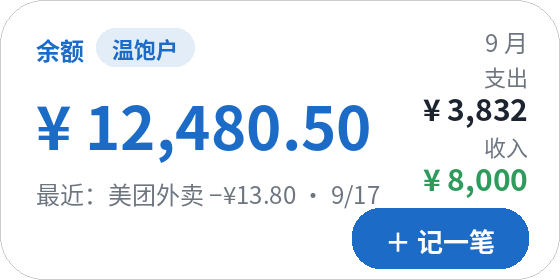
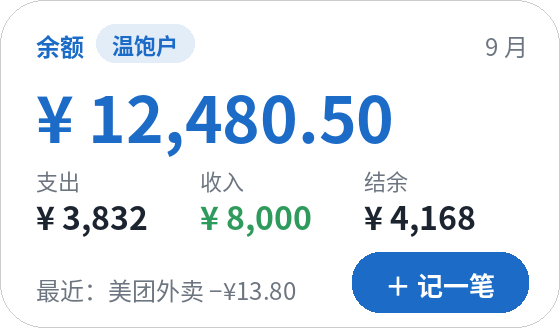
0.9.5：修主题互切黑闪（实色主题垫底色）；4×2 本月小部件四段铺满 + 结余

diff --git a/apps/yujian/lib/src/platform/home_widget_bridge.dart b/apps/yujian/lib/src/platform/home_widget_bridge.dart
@@ -13,10 +13,10 @@ class HomeWidgetBridge {
   /// [calYm] 是 `yyyy-MM`，[calExp] / [calInc] 是该月每天的支出 / 收入（分），逗号分隔、按日序；4×4 日历小部件用。
   /// [title] 是财富称号（贫困户 / 月光族 / …），空字符串 = 没有（没数据或游戏层关着），小部件上的胶囊就不显示。
   /// [disposable] 是「可花的」，[goals] 是 4×2 目标小部件用的 JSON 数组（最多 3 条，见 AppState.pushHomeWidget）。
-  Future<void> update({required String balance, required String expense, required String income, required String month, String recent = '', String today = '', String calYm = '', String calExp = '', String calInc = '', String title = '', String disposable = '', String goals = ''}) async {
+  Future<void> update({required String balance, required String expense, required String income, required String month, String recent = '', String today = '', String calYm = '', String calExp = '', String calInc = '', String title = '', String disposable = '', String goals = '', String net = ''}) async {
     if (!supported) return;
     try {
-      await _m.invokeMethod<void>('update', {'balance': balance, 'expense': expense, 'income': income, 'month': month, 'recent': recent, 'today': today, 'cal_ym': calYm, 'cal_exp': calExp, 'cal_inc': calInc, 'title': title, 'disposable': disposable, 'goals': goals});
+      await _m.invokeMethod<void>('update', {'balance': balance, 'expense': expense, 'income': income, 'month': month, 'recent': recent, 'today': today, 'cal_ym': calYm, 'cal_exp': calExp, 'cal_inc': calInc, 'title': title, 'disposable': disposable, 'goals': goals, 'net': net});
     } on PlatformException {
       // 没装小部件或系统不给，都不影响 App
     }

diff --git a/apps/yujian/lib/main.dart b/apps/yujian/lib/main.dart
@@ -92,7 +92,14 @@ class YujianApp extends StatelessWidget {
           final hasBg = spec.background != null || custom != null;
           final y = base.extension<YujianColors>()!;
           // 底栏挂在 Navigator 外面的覆盖层里（见 dock_host.dart），切页时不跟着路由一起被合成，磨砂全程有效
-          Widget host(Widget child) => DockHost(controller: dockController, dockBuilder: _buildDock, child: child);
+          // 没有背景层的实色主题：Navigator 底下垫一块主题底色。MaterialApp 切主题时会把 ThemeData 插值 200ms，
+          // scaffoldBackgroundColor 从透明（玻璃 / 暖木）渐变到实色的那几帧是半透明的，底下没东西就露出窗口的黑——
+          // 「四款主题互相切换会黑闪一下」就是它；玻璃主题切走时背景层又是立刻拆掉的，同样露黑
+          Widget host(Widget child) => DockHost(
+                controller: dockController,
+                dockBuilder: _buildDock,
+                child: hasBg ? child : Stack(fit: StackFit.expand, children: [ColoredBox(color: base.colorScheme.surface), child]),
+              );
           return MaterialApp(
             title: '余见',
             theme: custom == null ? base : withCustomBackground(base, background),

diff --git a/apps/yujian/android/app/src/main/kotlin/com/ivyea/yujian/SummaryWidget.kt b/apps/yujian/android/app/src/main/kotlin/com/ivyea/yujian/SummaryWidget.kt
@@ -44,6 +44,8 @@ open class SummaryWidget : AppWidgetProvider() {
                     v.setTextViewText(R.id.widget_balance, p.getString("balance", "¥ 0.00"))
                     v.setTextViewText(R.id.widget_expense, p.getString("expense", "¥ 0.00"))
                     v.setTextViewText(R.id.widget_income, p.getString("income", "¥ 0.00"))
+                    v.setTextViewText(R.id.widget_net, p.getString("net", "¥ 0.00"))
+                    v.setTextColor(R.id.widget_net, if ((p.getString("net", "") ?: "").contains("-")) 0xFFD64545.toInt() else 0xFF1C2430.toInt())
                     v.setTextViewText(R.id.widget_month, p.getString("month", ""))
                     v.setTextViewText(R.id.widget_recent, p.getString("recent", ""))
                     title(v, p)

diff --git a/apps/yujian/android/app/src/main/kotlin/com/ivyea/yujian/WidgetBridge.kt b/apps/yujian/android/app/src/main/kotlin/com/ivyea/yujian/WidgetBridge.kt
@@ -21,7 +21,7 @@ object WidgetBridge {
                 "update" -> {
                     val args = call.arguments as? Map<*, *>
                     val p = ctx.getSharedPreferences(SummaryWidget.PREFS, Context.MODE_PRIVATE).edit()
-                    for (k in listOf("balance", "expense", "income", "month", "recent", "today", "cal_ym", "cal_exp", "cal_inc", "title", "disposable", "goals")) p.putString(k, args?.get(k) as? String ?: "")
+                    for (k in listOf("balance", "expense", "income", "month", "recent", "today", "cal_ym", "cal_exp", "cal_inc", "title", "disposable", "goals", "net")) p.putString(k, args?.get(k) as? String ?: "")
                     p.apply()
                     SummaryWidget.refreshAll(ctx)
                     result.success(null)

diff --git a/apps/yujian/lib/src/app_state.dart b/apps/yujian/lib/src/app_state.dart
@@ -349,6 +349,7 @@ class AppState extends ChangeNotifier {
         title: m?.level?.title ?? '',
         disposable: m == null ? fmtMoney(balance, 'CNY') : fmtMoney(m.disposableMinor, 'CNY'),
         goals: game.enabled ? jsonEncode(goalRows) : '[]',
+        net: fmtMoney(income - expense, 'CNY'), // 4×2 的第三格「结余」
       );
     } catch (_) {}
   }

diff --git a/apps/yujian/lib/src/version.dart b/apps/yujian/lib/src/version.dart
@@ -1,2 +1,2 @@
 /// App 版本号。发版时和 pubspec.yaml 一起改（release.yml 用 tag 校验）。
-const appVersion = '0.9.4';
+const appVersion = '0.9.5';

diff --git a/scripts/gen_widget_previews.py b/scripts/gen_widget_previews.py
@@ -49,26 +49,26 @@ def button(d, x, y, w, h, text, size=13):
 
 
 def summary():
-    """4x2 本月：左栏 余额+称号+最近，右栏 月份/支出/收入/记一笔（照 widget_summary.xml 两栏画）。"""
-    img, d = card(280, 140)
+    """4x2 本月：头行 → 余额大字 → 支出 / 收入 / 结余 三格 → 最近 | 记一笔（照 widget_summary.xml 四段画）。"""
+    W, H = 280, 164
+    img, d = card(W, H)
     p = 18 * S
-    d.text((p, 16 * S), '余额', font=font(12, True), fill=BLUE)
+    d.text((p, 14 * S), '余额', font=font(12, True), fill=BLUE)
     fb = font(11, True); badge = '温饱户'
     bw = d.textlength(badge, font=fb) + 16 * S; bx = p + 30 * S
-    d.rounded_rectangle([bx, 14 * S, bx + bw, 14 * S + 19 * S], radius=10 * S, fill=(0x1B, 0x6B, 0xC7, 0x1F))
-    d.text((bx + 8 * S, 16 * S), badge, font=fb, fill=BLUE)
-    d.text((p, 40 * S), '¥ 12,480.50', font=font(30, True), fill=BLUE)
-    d.text((p, 88 * S), '最近：美团外卖 −¥13.80 · 9/17', font=font(12), fill=MUTED)
-    # 右栏靠右
-    R = 280 * S - 16 * S
-    def right(text, f, y, col):
-        d.text((R - d.textlength(text, font=f), y), text, font=f, fill=col)
-    right('9 月', font(12), 12 * S, MUTED)
-    right('支出', font(11), 30 * S, MUTED)
-    right('¥ 3,832', font(15, True), 43 * S, INK)
-    right('收入', font(11), 65 * S, MUTED)
-    right('¥ 8,000', font(15, True), 78 * S, GREEN)
-    button(d, R - 88 * S, 104 * S, 88 * S, 30 * S, '＋ 记一笔')
+    d.rounded_rectangle([bx, 12 * S, bx + bw, 12 * S + 19 * S], radius=10 * S, fill=(0x1B, 0x6B, 0xC7, 0x1F))
+    d.text((bx + 8 * S, 14 * S), badge, font=fb, fill=BLUE)
+    f = font(12)
+    d.text((W * S - 16 * S - d.textlength('9 月', font=f), 14 * S), '9 月', font=f, fill=MUTED)
+    d.text((p, 34 * S), '¥ 12,480.50', font=font(32, True), fill=BLUE)
+    colw = (W * S - p - 16 * S) / 3
+    y = 82 * S
+    for i, (label, val, col) in enumerate([('支出', '¥ 3,832', INK), ('收入', '¥ 8,000', GREEN), ('结余', '¥ 4,168', INK)]):
+        x = p + colw * i
+        d.text((x, y), label, font=font(11), fill=MUTED)
+        d.text((x, y + 14 * S), val, font=font(16, True), fill=col)
+    d.text((p, 136 * S), '最近：美团外卖 −¥13.80', font=font(12), fill=MUTED)
+    button(d, W * S - 16 * S - 88 * S, 126 * S, 88 * S, 30 * S, '＋ 记一笔')
     return img
 
 

diff --git a/CHANGELOG.md b/CHANGELOG.md
@@ -1,5 +1,10 @@
 # 更新日志
 
+## 0.9.5 — 2026-09-20
+
+- **修主题互切黑闪**：切主题时 ThemeData 会插值 200ms，实色主题的 Scaffold 底色从「透明」渐变到实色的那几帧是半透明的，底下没有背景层就露出窗口的黑（玻璃 / 暖木 → 留白 / 硬边 / 柔感，或反过来）。现在没有背景层的主题在 Navigator 底下垫一块主题底色
+- **4×2「本月」小部件再排**：四段从上到下铺满——头行（余额 + 称号 | 月份）→ 余额大字 → 支出 / 收入 / **结余** 三格（撑开中段，随高度居中）→ 最近一笔 | 记一笔。不再上下空一截
+
 ## 0.9.4 — 2026-09-20
 
 - **4×2「本月」小部件重排**：改成左右两栏——左：余额（+ 称号）大字、最近一笔；右：月份 / 支出 / 收入 靠右一列 + 记一笔。以前支出、收入、按钮挤在下面一行，右半边全空
